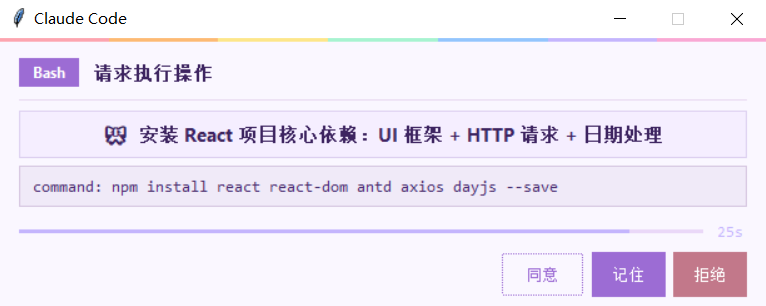
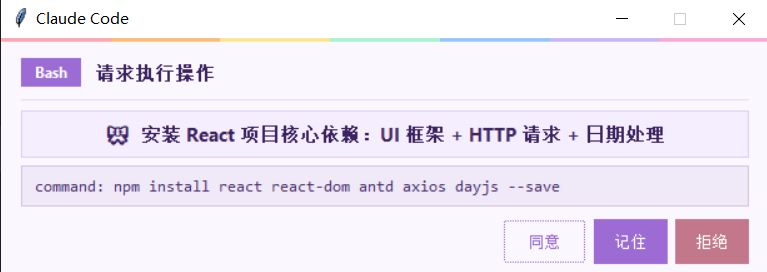
refactor: remove countdown, improve allow rules security, fix project isolation
- Remove countdown timer UI; dialog now waits indefinitely (20min hook timeout as safety net)
- _remember() now writes to current project's .claude/settings.local.json instead of hardcoded path
- Safe rule generation: fall back to Bash(*) for multi-line or >80 char commands
- Remove auto-allow fallbacks in main(); let Claude Code handle edge cases
- Filter timeout field from dialog detail display
- Window close now correctly denies
- Update README to reflect new behavior

diff --git a/permission_dialog.py b/permission_dialog.py
@@ -44,10 +44,12 @@ def _focus(root, btn):
     btn.focus_set()
 
 
+SKIP_KEYS = {'description', 'timeout'}
+
 def _detail(tool_input):
     lines = []
     for k, v in tool_input.items():
-        if k == 'description':
+        if k in SKIP_KEYS:
             continue
         if isinstance(v, str):
             lines.append(f'{k}: {v}')
@@ -180,43 +182,6 @@ def show(data):
             sb.pack(side='right', fill='y')
             box.configure(yscrollcommand=sb.set)
 
-    # ── 倒计时条 ─────────────────────────────────────────────────────────────
-    timer_frame = tk.Frame(root, bg=BG)
-    timer_frame.pack(fill='x', padx=16, pady=(6, 0))
-
-    track = tk.Canvas(timer_frame, height=3, bg='#ead8f8',
-                      highlightthickness=0)
-    track.pack(fill='x', side='left', expand=True)
-    timer_lbl = tk.Label(timer_frame, text='28s',
-                         bg=BG, fg='#c4b5fd',
-                         font=(MONO, 9))
-    timer_lbl.pack(side='right', padx=(8, 0))
-
-    TIMEOUT = 28
-    remaining = [TIMEOUT]
-
-    def _draw_bar(event=None):
-        track.delete('all')
-        w = track.winfo_width() or 400
-        ratio = remaining[0] / TIMEOUT
-        if ratio > 0:
-            track.create_rectangle(0, 0, int(w * ratio), 3,
-                                   fill='#c4b5fd', outline='')
-    track.bind('<Configure>', _draw_bar)
-
-    def _tick():
-        if not root.winfo_exists():
-            return
-        remaining[0] -= 1
-        timer_lbl.config(text=f'{remaining[0]}s')
-        _draw_bar()
-        if remaining[0] <= 0:
-            root.quit()
-        else:
-            root.after(1000, _tick)
-
-    root.after(1000, _tick)
-
     # ── 按钮区 ───────────────────────────────────────────────────────────────
     bf = tk.Frame(root, bg=BG)
     bf.pack(fill='x', padx=16, pady=(6, 8))
@@ -270,7 +235,7 @@ def show(data):
 
     # ── 快捷键 ────────────────────────────────────────────────────────────────
     root.bind('<Return>', lambda e: act(True, True))
-    root.protocol('WM_DELETE_WINDOW', root.quit)
+    root.protocol('WM_DELETE_WINDOW', lambda: act(False))
 
     # ── 计算窗口尺寸 ──────────────────────────────────────────────────────────
     root.update_idletasks()
@@ -292,16 +257,14 @@ def main():
     try:
         raw = sys.stdin.buffer.read()
         if not raw:
-            os.write(1, b'{"continue": true}\n')
-            return
+            return  # no stdin data — let Claude Code decide
         data = json.loads(raw.decode())
     except Exception:
-        os.write(1, b'{"continue": true}\n')
-        return
+        return  # parse error — let Claude Code decide
     try:
         show(data)
     except Exception:
-        os.write(1, b'{"continue": true}\n')
+        pass  # dialog crashed — let Claude Code decide
 
 
 if __name__ == '__main__':

diff --git a/README.md b/README.md
@@ -22,8 +22,8 @@ Bash 命令执行前弹出确认窗口。
 |------|------|
 | 点「同意」| 批准本次操作（仅此一次，下次还会弹） |
 | 点「记住」（**按 Enter**） | **= 记住并同意**，记住此工具并批准，以后同类操作不再询（**最省事，推荐）** |
-| 点「拒绝」 | 阻止本次操作 |
-| 关闭窗口 / 28 秒超时 | 不做决定，退回终端让你手动确认 |
+| 点「拒绝」/关闭窗口 | 阻止本次操作 |
+| 20min超时 | 阻止本次操作 |
 
 
 
